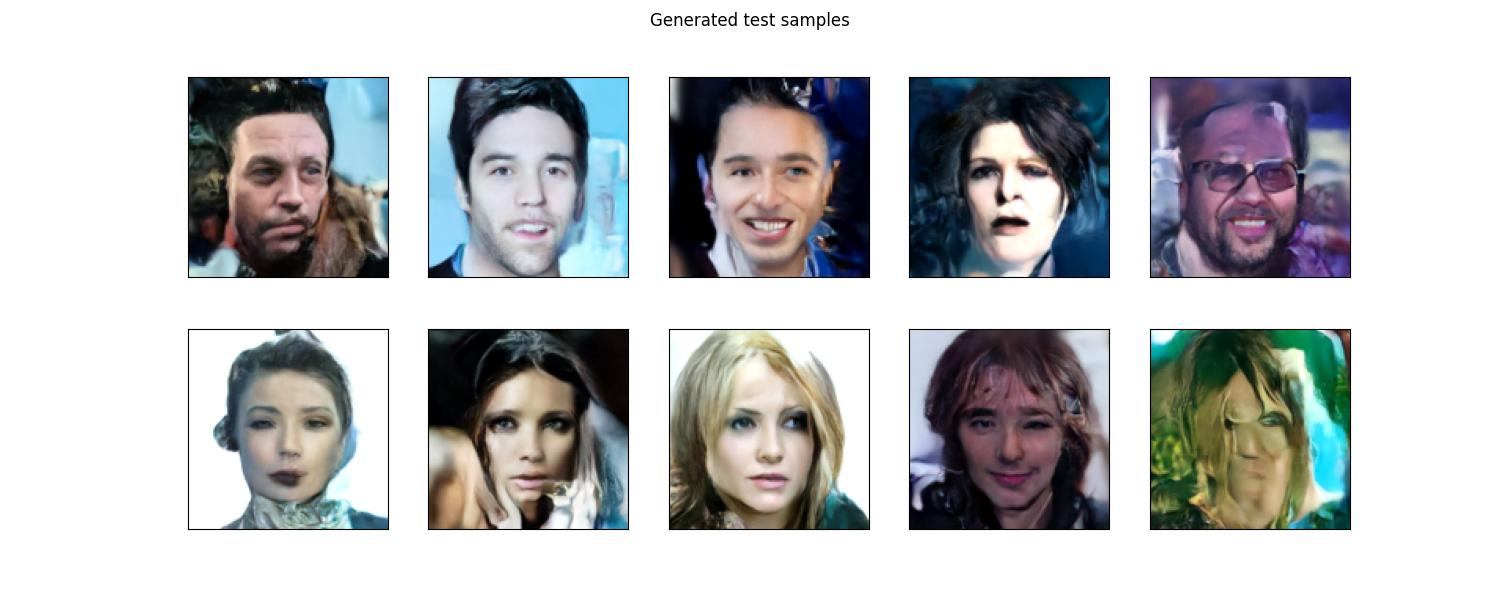
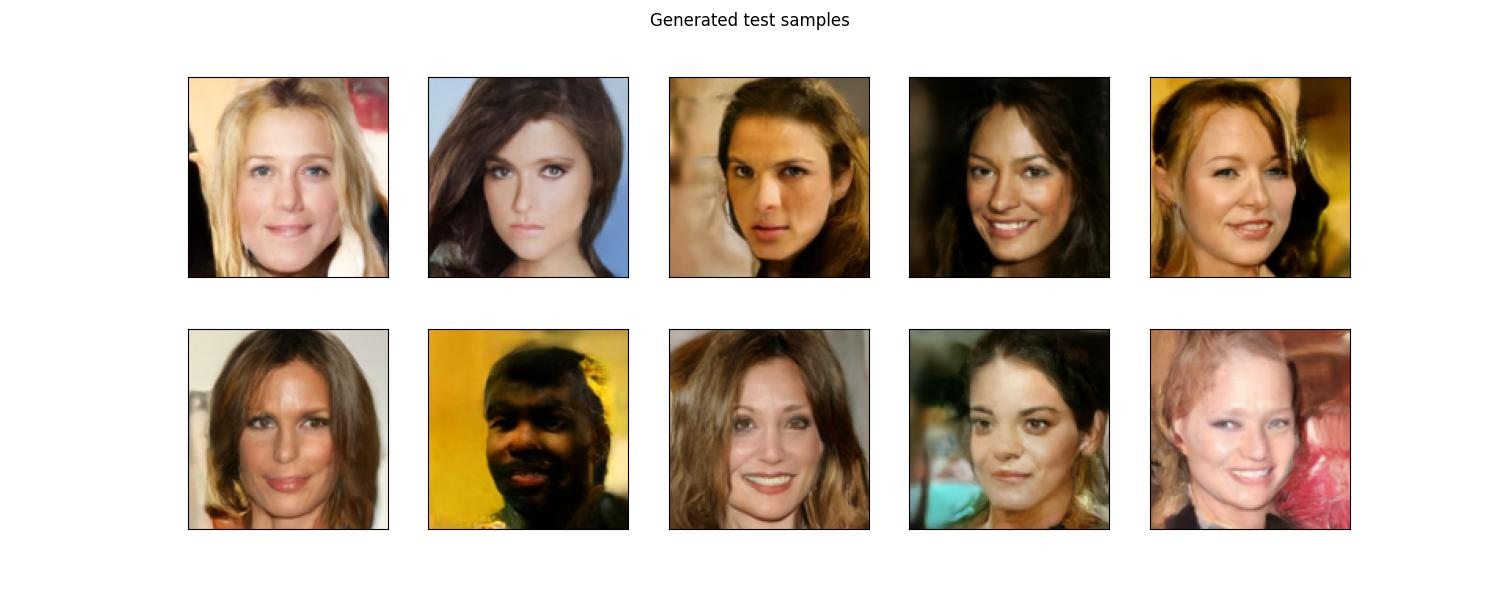
update dg_c exp

diff --git a/README.md b/README.md
@@ -179,10 +179,10 @@ download-once approach used for Celeb is planned.
 ##### dg_c_celeb_x128_00_base.yaml (baseline)
 - Keywords: pixel-space DDPM, chuchichaestli UNet, baseline architecture, 128px
 - GPU: 2x A100
-- Train: 165 EP, 2h41m, 1m0s/EP
+- Train: 266 EP, 4h6m, 56s/EP (stopped early: ValLoss_stagnated)
 
 ![dg_c_celeb_x128_00_base generated test samples](assets/dg_c_celeb_x128_00_base.jpg)
-- Quality: mixed - 1/10 completely unrealistic (green cast merging into hair/background), several others have background texture bleeding into the face
+- Quality: good - all 10 faces read as real and coherent, no color-cast or texture-bleed artifacts
 
 ##### dg_c_celeb_x128_01.yaml (LR param, 4 parallel runs)
 - Keywords: learning-rate sweep, 4 parallel runs at different LR values
@@ -234,10 +234,10 @@ download-once approach used for Celeb is planned.
 ##### dg_c_celeb_x256_00_base.yaml (256px)
 - Keywords: same baseline architecture, scaled to 256px
 - GPU: 2x H200
-- Train: 130 EP, 2h29m, 1m5s/EP
+- Train: 263 EP, 4h58m, 1m8s/EP (stopped early: ValLoss_stagnated)
 
 ![dg_c_celeb_x256_00_base generated test samples](assets/dg_c_celeb_x256_00_base.jpg)
-- Quality: mixed - 2/10 clearly unrealistic (indistinct dark face, magenta cast), rest look real
+- Quality: bad - only about 2/10 faces look real, rest show strong blue/purple/green color-cast or heavy distortion
 
 #### VIT (DiT)
 
